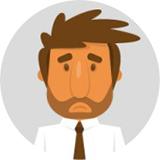
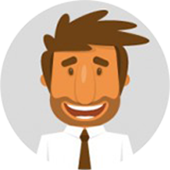
part of calculating finished!

diff --git a/calculate.py b/calculate.py
@@ -63,30 +63,42 @@ class cal:
             self.score_chai += 1
 
     def chai(self):
-        if self.score_chai - self.score_pa == 1:
+        if self.score_chai - self.score_pa == -3:
+            self.people_chai = arcade.Sprite('images/cha-3.png')
+        elif self.score_chai - self.score_pa == -2:
+            self.people_chai = arcade.Sprite('images/cha-2.png')
+        elif self.score_chai - self.score_pa == -1:
+            self.people_chai = arcade.Sprite('images/cha-1.png')
+        elif self.score_chai - self.score_pa == 0:
+            self.people_chai = arcade.Sprite('images/cha0.png')
+        elif self.score_chai - self.score_pa == 1:
+            self.people_chai = arcade.Sprite('images/cha1.png')
+        elif self.score_chai - self.score_pa == 2:
             self.people_chai = arcade.Sprite('images/cha2.png')
-        if self.score_chai - self.score_pa == 2:
+        elif self.score_chai - self.score_pa == 3:
+            self.people_chai = arcade.Sprite('images/cha3.png')
+        elif self.score_chai - self.score_pa == 4:
             self.people_chai = arcade.Sprite('images/cha4.png')
-        if self.score_chai - self.score_pa == 3:
-            self.people_chai = arcade.Sprite('images/cha4.png')
-        if self.score_chai - self.score_pa == 4:
-            self.people_chai = arcade.Sprite('images/cha5.png')
-        if self.score_chai - self.score_pa == 5:
-            self.people_chai = arcade.Sprite('images/cha5.png')
         self.people_chai.set_position(100, 100)
         self.people_chai.draw()
 
     def pa(self):
-        if self.score_pa - self.score_chai == 1:
+        if self.score_pa - self.score_chai == -3:
+            self.people_pa = arcade.Sprite('images/pa-3.png')
+        elif self.score_pa - self.score_chai == -2:
+            self.people_pa = arcade.Sprite('images/pa-2.png')
+        elif self.score_pa - self.score_chai == -1:
+            self.people_pa = arcade.Sprite('images/pa-1.png')
+        elif self.score_pa - self.score_chai == 0:
+            self.people_pa = arcade.Sprite('images/pa0.png')
+        elif self.score_pa - self.score_chai == 1:
+            self.people_pa = arcade.Sprite('images/pa1.png')
+        elif self.score_pa - self.score_chai == 2:
             self.people_pa = arcade.Sprite('images/pa2.png')
-        if self.score_pa - self.score_chai == 2:
+        elif self.score_pa - self.score_chai == 3:
+            self.people_pa = arcade.Sprite('images/pa3.png')
+        elif self.score_pa - self.score_chai == 4:
             self.people_pa = arcade.Sprite('images/pa4.png')
-        if self.score_pa - self.score_chai == 3:
-            self.people_pa = arcade.Sprite('images/pa4.png')
-        if self.score_pa - self.score_chai == 4:
-            self.people_pa = arcade.Sprite('images/pa5.png')
-        if self.score_pa - self.score_chai == 5:
-            self.people_pa = arcade.Sprite('images/pa5.png')
         self.people_pa.set_position(900, 100)
         self.people_pa.draw()
 
